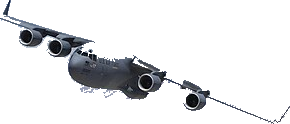
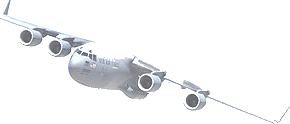
v0.35.1: fix6 nose directions (backwards flying), remove4 dirty sprites, brighten dark C-17, preload panel min-visible800ms
- 倒飛: AC-0021/0024/0025/0057/0060/0061 nose metadata corrected after native-size audit of all25 sprites
- cutout round2 fail-closed: AC-0008 grey cloud band, AC-0040 mangled (user screenshot2), AC-0059 foliage, AC-0070 cloud chunks; pool now21 = BAAB4/IAAB9/AAAB8 (all >=4)
- AC-0025 dark C-17 (user screenshot1): brightened via ImageMagick + nose fixed instead of removal (BAAB would drop below4)
- preload panel now shows for at least PRELOAD_MIN_MS=800 so fast connections can see it; fail-open8s cap and gen-token aborts unchanged
- version bump0.35.0 ->0.35.1 across index(10 surfaces), APP_VERSION, plane-sprites.json, README, CHANGELOG, docs/05 row68, docs/07
- sim rebuilt against real API (disk-backed fetch):74/74 incl min-visible assertions; stress match PASS0 leaks

diff --git a/web/index.html b/web/index.html
@@ -4,10 +4,10 @@
 <meta charset="UTF-8">
 <meta name="viewport" content="width=device-width, initial-scale=1.0, viewport-fit=cover">
 <meta name="copyright" content="© SCOUT SYSTEM">
-<meta name="app-version" content="0.35.0">
+<meta name="app-version" content="0.35.1">
 <meta name="description" content="航空圖鑑 Aircraft Encyclopedia：由圖片認識飛機、航空公司同航點，學識辨認。資料逐款核實。">
 <meta property="og:type" content="website">
-<meta property="og:title" content="航空圖鑑 Aircraft Encyclopedia v0.35.0">
+<meta property="og:title" content="航空圖鑑 Aircraft Encyclopedia v0.35.1">
 <meta property="og:description" content="航空圖鑑：由圖片認識飛機，資料逐款核實。">
 <meta property="og:image" content="icons/og-image.png">
 <meta name="theme-color" content="#0a2a4a">
@@ -16,19 +16,19 @@
 <link rel="icon" type="image/png" sizes="32x32" href="icons/favicon-32.png">
 <link rel="apple-touch-icon" sizes="180x180" href="icons/apple-touch-icon.png">
 <link rel="manifest" href="manifest.webmanifest">
-<title>航空圖鑑 v0.35.0｜Aircraft Encyclopedia</title>
-<link rel="stylesheet" href="vendor/leaflet/leaflet.css?v=0.35.0">
-<link rel="stylesheet" href="styles.css?v=0.35.0">
+<title>航空圖鑑 v0.35.1｜Aircraft Encyclopedia</title>
+<link rel="stylesheet" href="vendor/leaflet/leaflet.css?v=0.35.1">
+<link rel="stylesheet" href="styles.css?v=0.35.1">
 <link rel="preload" as="fetch" href="data/aircraft-inventory.json" crossorigin>
 <link rel="preload" as="fetch" href="data/airports.json" crossorigin>
 <link rel="preload" as="fetch" href="data/airlines.json" crossorigin>
 </head>
 <body>
-<!-- Aircraft-Encyclopedia v0.35.0 · © SCOUT SYSTEM -->
+<!-- Aircraft-Encyclopedia v0.35.1 · © SCOUT SYSTEM -->
 <header class="topbar">
   <a class="brand" href="./" aria-label="Aircraft Encyclopedia home">
     <img src="icons/icon-192.png" alt="" width="38" height="38">
-    <span><strong data-i18n="brand">航空圖鑑</strong><small>Aircraft Encyclopedia v0.35.0</small></span>
+    <span><strong data-i18n="brand">航空圖鑑</strong><small>Aircraft Encyclopedia v0.35.1</small></span>
   </a>
   <button id="langToggle" data-lang-toggle type="button" class="lang-btn" aria-label="Switch to English" title="Switch to English">EN</button>
 </header>
@@ -167,9 +167,9 @@
 </dialog>
 
 <footer>
-  <p>© SCOUT SYSTEM · COPYRIGHT SCOUT SYSTEM · Aircraft-Encyclopedia v0.35.0 · <a href="https://github.com/playerkousas-rgb/Aircraft-Encyclopedia/blob/main/CREDITS.md">CREDITS</a> · MIT License</p>
+  <p>© SCOUT SYSTEM · COPYRIGHT SCOUT SYSTEM · Aircraft-Encyclopedia v0.35.1 · <a href="https://github.com/playerkousas-rgb/Aircraft-Encyclopedia/blob/main/CREDITS.md">CREDITS</a> · MIT License</p>
 </footer>
-<script src="vendor/leaflet/leaflet.js?v=0.35.0"></script>
-<script src="app.js?v=0.35.0"></script>
+<script src="vendor/leaflet/leaflet.js?v=0.35.1"></script>
+<script src="app.js?v=0.35.1"></script>
 </body>
 </html>

diff --git a/web/app.js b/web/app.js
@@ -1,6 +1,6 @@
 "use strict";
 /* Aircraft-Encyclopedia v0.7 · © SCOUT SYSTEM · APP_VERSION 0.9.0 */
-const APP_VERSION = "0.35.0";
+const APP_VERSION = "0.35.1";
 const LANG_KEY = "aircraft-encyclopedia.lang";
 const QUIZ_BEST_KEY = "aircraft-encyclopedia.quiz-best";
 function loadQuizBest() { try { const v = JSON.parse(localStorage.getItem(QUIZ_BEST_KEY) || "{}"); return v && typeof v === "object" ? v : {}; } catch (e) { return {}; } }
@@ -1024,6 +1024,7 @@ function renderGameIntro() {
 // any still-running downloads keep warming the cache in the background. Generation
 // tokens let a tab switch / restart / lang switch abort a pending start cleanly.
 let gameLoadGen = 0, quizLoadGen = 0, spotLoadGen = 0, shooterLoadGen = 0;
+const PRELOAD_MIN_MS = 800; // keep the loading panel visible long enough to be seen
 function preloadPanel(id, n) {
   return `<p class="locked-note"><b id="${id}">${t().gamePreload} 0/${n}</b></p><p class="locked-note">${t().gamePreloadHint}</p>`;
 }
@@ -1032,8 +1033,16 @@ function preloadCountCb(id) {
 }
 function preloadImages(urls, onDone, onProgress) {
   const list = [...new Set(urls.filter((u) => !!u))];
+  const t0 = Date.now();
   let done = 0, finished = false, capT = null;
-  const finish = () => { if (finished) return; finished = true; if (capT) { clearTimeout(capT); capT = null; } onDone(); }
+  const finish = () => {
+    if (finished) return;
+    finished = true;
+    if (capT) { clearTimeout(capT); capT = null; }
+    const wait = PRELOAD_MIN_MS - (Date.now() - t0); // fast cache still shows the panel briefly
+    if (wait > 0) setTimeout(onDone, wait);
+    else onDone();
+  };
   const tick = () => {
     done += 1;
     if (onProgress) onProgress(Math.min(done, list.length), list.length);

diff --git a/docs/05-data-issues.md b/docs/05-data-issues.md
@@ -151,3 +151,4 @@
 | 65 | 列印邊距＋快取混版＋死掣硬化（v0.33.1，用戶兩點回報） | (a) 用戶列印仍四邊無邊距：@page 15/14mm 被 print dialog「無邊距」覆蓋或 styles.css 快取落後（證據＝© 行/無水印屬新 app.js、無 @page 屬舊 CSS＝混版）→ 雙保險：`@page 8mm`＋print `.exam-sheet padding:10mm 8mm`（任一機制失效仍有邊距），index.html 全 asset 加 `?v=0.33.1` 查詢參數強制刷新。(b) 用戶報「有些遊戲卡著開唔出」：全流程 vm 模擬 8 款遊戲全開到（pool 157/157/41/152/23/28/20 全過檻）→ 鎖定為混版快取（舊 v0.32 app.js 切頁卡死＝「卡著」）＋ silent return 死掣無反饋 → 8 個開始鈕 pool 唔夠時 `disabled`＋灰樣式。(c) 驗收：模擬 102/102（開/tick/render 安全/切頁/quit 返 intro/9 tab 組合/計分）＋全套 gates；另捉到4個滯留 v0.31 版號面（og:title/title/HTML註解/品牌行）同步升 0.33.1。 |
 | 66 | 載入指示＋載入提速＋空防戰清污＋凍結防護（v0.34.0，用戶五點） | (a) 用戶回報 load 時唔知係咪載入緊 → hero 加靜態 `loadStatus`（HTML 一開就見到、i18n 中英），boot 5 份 fetch settle 齊先 hidden。(b) 載入慢 → index.html 三條 preload（inventory ~1MB／airports／airlines，慳 HTML→JS→fetch 串行）＋ `web/vercel.json`（VL3 安全 headers＋app.js/styles.css/vendor 一年 immutable；regions 不加——hkg1 plan 可用性沙箱無法核實）。(c) 空防戰出處 pill 刪（用戶：唔好再標出處；署名資料留 JSON，圖鑑卡不變）＋洋紅底 montage 複檢 41 張剪影，16 張殘留背景 fail-closed 移除＋刪檔（BAAB5/IAAB10/AAAB10 仍 ≥4）。(d) 凍結調查：靜態審計六面向全乾淨＋vm 壓測 3500 題（退出/重開/過期/雙遊戲同跑）0 異常 → 代碼層面證明 match 唔會卡；加防護＝5 個 answer handler 先排定推進＋try/catch（sim G1 注入 throw 實證推進存活）；實機若仍卡＝舊 app.js 快取，硬性重整。(e) 驗收：sim 53/53（boot/載入指示/四卷無 [object Object]/7 遊戲全流程/切頁全停/disabled 硬化/防護注入/剪影 fail-closed/版號面）＋全套 gates。 |
 | 67 | 相片遊戲開局預載（v0.35.0，用戶自診＋補充指示） | 用戶診斷：「認到嗰刻要 show 原圖，瀏覽器未緩存」＝題目 `<img>` 每題先至向 Wikimedia 下載960px原圖，慢網時空白數秒似卡。定案：四個相片遊戲（小測驗／限時睇相／睇相認公司／空防戰）start 前預載題目相片，用戶補充「預載時要出提示話俾用戶知」→ 載入面板＝「圖片載入中… x/y」（preload 回調即時更新）＋解釋句（i18n `gamePreload`／`gamePreloadHint` 中英）；8 秒 fail-open（Promise 概念用計數＋cap setTimeout，到點照開局、下載後台繼續）；generation token（gameLoadGen/quizLoadGen/spotLoadGen/shooterLoadGen）喺 stopAllGames／langToggle 時 +1 中止等待。順修：langToggle 之後 renderGameIntro/renderQuizIntro/renderShooterIntro 從未重繪（intro 滞留舊語言）→ stopAllGames 無條件重繪四個相片遊戲 intro＋langToggle 補三個 render。驗收：sim 加 J section（面板先出、advance 後開局、fail-open8s、stopAllGames 中止、langToggle 中止、進度文本）＋全套 gates。 |
+| 68 | 剪影 round2＋倒飛＋面板可見性（v0.35.1，用戶三點） | (a) 用戶截圖報兩張壞圖＋倒飛：原圖尺寸4張 zoom sheet 複檢全25張——6張 nose 元數據相反（0021/0024/0025/0057/0060/0061）逐一修正；4張殘留移除（0008 灰雲帶／0040 爛圖＝截圖2／0059 尾部樹木／0070 雲塊）→ pool 21＝BAAB4/IAAB9/AAAB8 全≥4；截圖1＝0025 暗 C-17——移除會令 BAAB 跌穿3（按鈕要閂），改 ImageMagick 提亮＋修方向保留。(b) 用戶：無痕＋確認0.35.0都見唔到載入面板——根因＝網絡快 preload 幾十 ms 完成、面板一閃而過 → PRELOAD_MIN_MS=800 最短顯示（fail-open cap/token 中止不變）。(c) 驗收：sim 更新（H pool 數字、J 最短顯示斷言、D/E/J start advances 對齊800ms）＋全套 gates。 |

diff --git a/README.md b/README.md
@@ -4,7 +4,7 @@
 > 類型：輕量靜態 App（無帳號、無後台）· 技術棧：純靜態多檔（HTML/CSS/原生 JS＋JSON）· 授權：MIT
 > 原始需求 brief 保留喺根目錄 `README` 檔；本檔係 5 分鐘入口。
 
-更新日期：2026-11-12 · 版本：v0.35.0 · 負責：playerkousas-rgb
+更新日期：2026-11-12 · 版本：v0.35.1 · 負責：playerkousas-rgb
 
 ---
 
@@ -38,6 +38,7 @@
 
 **v0.30**：檢卷「航空公司配對」右欄加 23 個已核實 PD 標誌（5 間文字牌照舊；標誌唔係答案，key 照舊純文字）。見 docs/05 第 61 項。
 
+**v0.35.1**：空防戰剪影 round2——6 張機頭方向修正（治倒飛）、4 張殘留 fail-closed 移除（pool 21）、暗 C-17 提亮保留；載入面板最少顯示 800ms（治「無痕都見唔到」）。見 docs/05 第 68 項。
 **v0.35.0**：四個相片遊戲開局前預載題目相片（「圖片載入中… x/y」進度＋解釋句，8 秒 fail-open，切頁 token 中止）——治「認到飛機要等原圖」嘅卡頓；順修語言切換後飛機遊戲 intro 滯留舊語言。見 docs/05 第 67 項。
 **v0.34.0**：載入狀態指示（hero「載入資料中…」＋三份 JSON preload 慳串行往返）＋ `web/vercel.json`（安全 headers＋versioned assets 一年 immutable）；空防戰出處行移除＋16 張殘留剪影 fail-closed（pool 餘25，各池仍≥4）；五個答題 handler「先排定推進＋try/catch」防鎖死，配對遊戲壓測3500題0凍結。見 docs/05 第 66 項。
 **v0.33.1**：列印邊距雙保險（@page 8mm ＋ print sheet padding 10mm/8mm——對抗 print dialog「無邊距」覆蓋）；全部 asset 加 `?v=0.33.1` 破快取（修「styles.css 落後 app.js」混版）；遊戲開始鈕 pool 唔夠時 disabled（唔再 silent 死掣）；全流程模擬 102/102（8 款遊戲開/tick/quit/render/切頁安全）。見 docs/05 第 65 項。

diff --git a/docs/07-minigames-roadmap.md b/docs/07-minigames-roadmap.md
@@ -4,6 +4,7 @@
 > 定位：唔係外加娛樂，而係直接對應章規已有要求，見 §1。未核實唔出題（fail closed）。
 > v0.31 分頁：六款遊戲按章規歸類——飛機｜遊戲＝小測驗／限時／射擊；航空公司｜遊戲＝配對＋認標誌挑戰；航點｜遊戲＝機場代碼＋睇相認公司（docs/05 第 62 項）。
 > v0.32 空防戰：目標改「圖鑑相片去背飛機剪影」（可認機型、機頭永遠向前、唔係相片卡/純黑剪影）；41 款入 pool、13 款去背唔乾淨 fail-closed（docs/05 第 63 項）。其他遊戲相片照舊。
+> v0.35.1：剪影 round2——6 張機頭方向修正（治倒飛）、4 張殘留移除（pool 21）、暗 C-17 提亮；載入面板最少顯示 800ms（docs/05 第 68 項）。
 > v0.35.0：四個相片遊戲開局預載題目相片（「圖片載入中… x/y」進度＋解釋句、8 秒 fail-open、token 中止）；順修語言切換後飛機遊戲 intro 滞留舊語言（docs/05 第 67 項）。
 > v0.34.0：載入狀態指示＋JSON preload＋vercel.json（安全 headers＋immutable）；空防戰出處行移除＋16 張殘留剪影 fail-closed（pool 25）；五個答題 handler 先排定推進防鎖死，壓測 3500 題 0 凍結（docs/05 第 66 項）。
 > v0.33.1：8 個遊戲開始鈕 pool 唔夠時 disabled（silent return 死掣→可見狀態）；全流程模擬 102/102（8 款遊戲開/tick/render/切頁安全）；快取混版用 `?v=` 破除（docs/05 第 65 項）。

diff --git a/CHANGELOG.md b/CHANGELOG.md
@@ -6,6 +6,14 @@
 
 - （暫無排定新批次；157 款已全數核實，其後以功能完善為主。）
 
+## [0.35.1] - 2026-11-12
+
+### Fixed
+- **倒飛（用戶回報）**：原圖尺寸逐張複檢25張剪影嘅機頭方向——6張元數據錯晒（AC-0021 R44／0024 F-35／0025 C-17／0057 J-20／0060 A340／0061 Dreamlifter 全部相反），逐一修正（nose 決定鏡像方向，錯了就倒飛）。
+- **剪影殘留 round2（用戶截圖）**：再捉4張——AC-0008 機身上灰雲帶、AC-0040 爛圖＋天空建築殘留（＝用戶截圖2嘅直升機）、AC-0059 尾部綠色樹木、AC-0070 藍色 Su-30 全身雲塊——fail-closed 移除＋刪檔；pool 餘21（BAAB4／IAAB9／AAAB8，全部仍 ≥4）。
+- **暗 C-17（用戶截圖1）**：AC-0025 太暗認唔到機型，但移除會令 BAAB 跌穿4——改為資產提亮（ImageMagick brightness）＋修方向保留。
+- **載入面板一閃而過（用戶：無痕都見唔到）**：網絡快時 preload 幾十 ms 就完成，面板唔夠時間俾人眼捕捉——加 `PRELOAD_MIN_MS =800` 最短顯示時間（fail-open8秒上限不變，切頁 token 中止不變）。
+
 ## [0.35.0] - 2026-11-12
 
 ### Added
